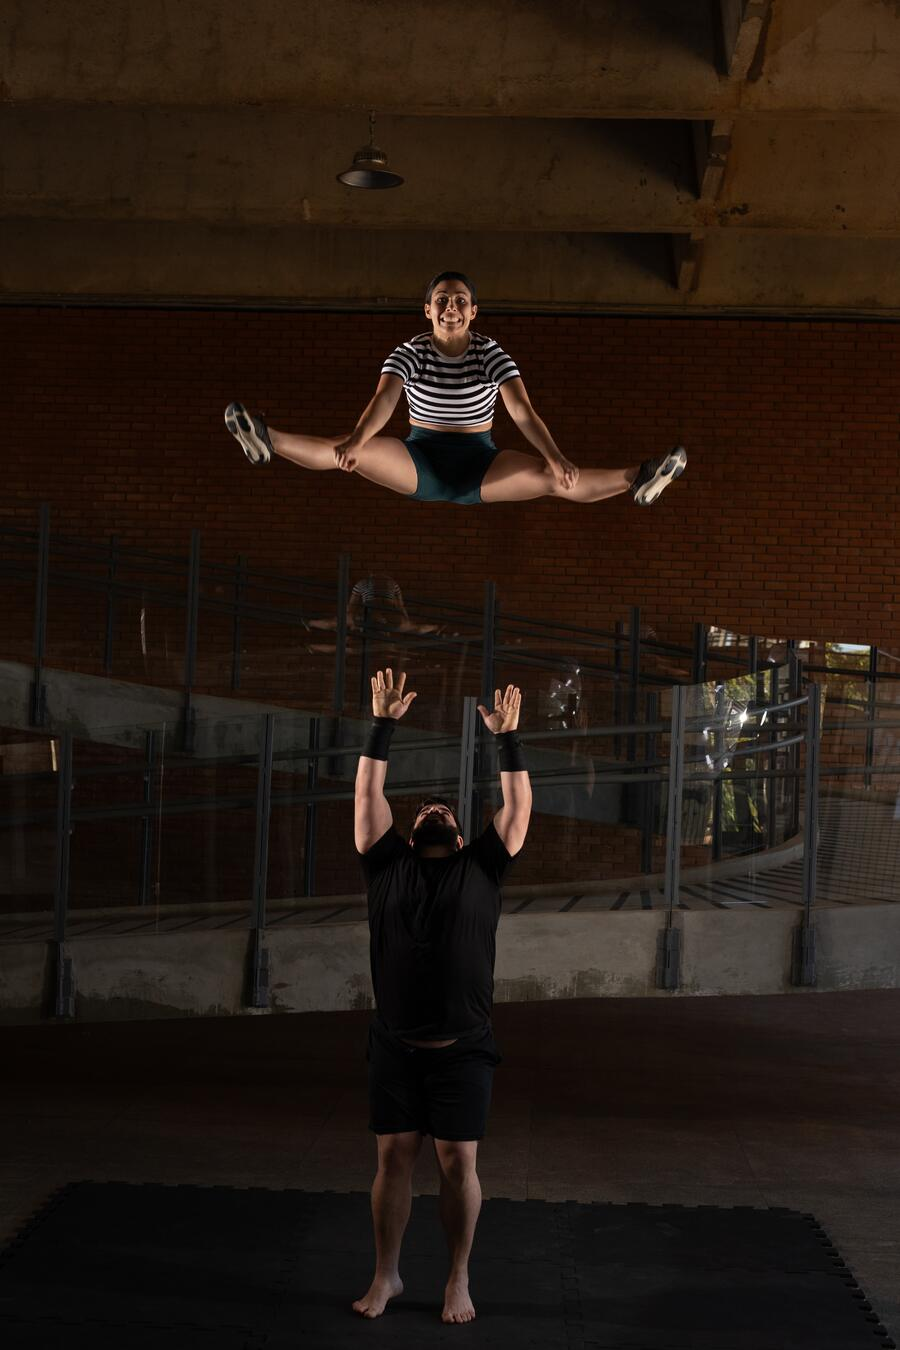
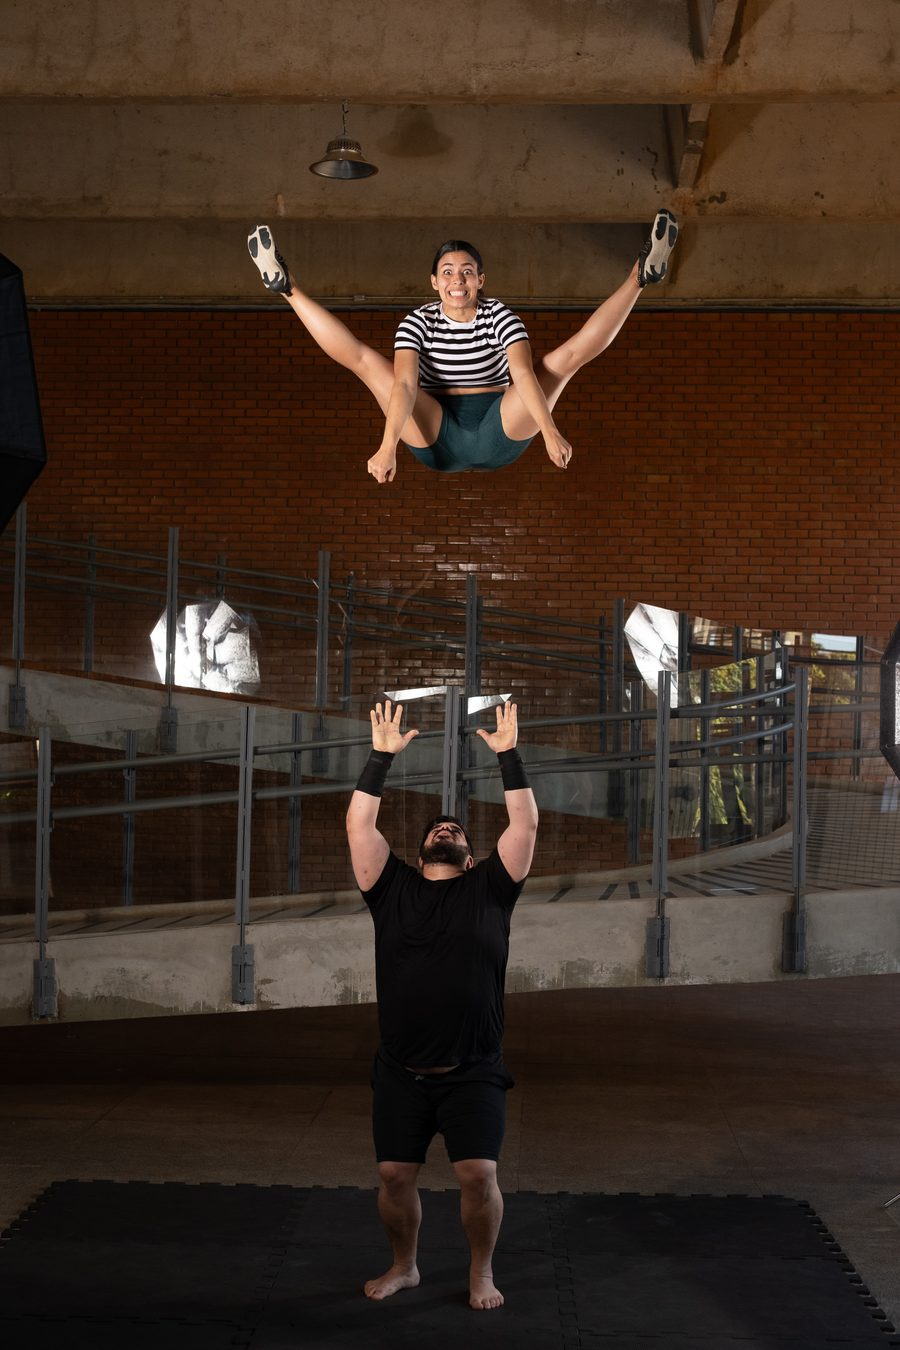
Capa nova escolhida pela Mari (DSCF0043, toe touch)
Claude-Session: https://claude.ai/code/session_01Ry7eziGbijzSC64YsZahc4

diff --git a/index.html b/index.html
@@ -96,7 +96,7 @@
   <main class="capa">
     <picture>
       <source media="(min-width: 900px) and (min-aspect-ratio: 4/3)" srcset="img/capa-larga.jpg" />
-      <img class="foto" src="img/capa-alta.jpg" alt="Mari no ar em espacate, lançada pelo Luan, num treino na UnB" />
+      <img class="foto" src="img/capa-alta.jpg" alt="Mari no ar em toe touch, lançada pelo Luan, num treino na UnB" />
     </picture>
     <img class="logo-topo" src="img/logo-branca.svg" alt="Logo do Duo LuMa" />
     <div class="conteudo">
